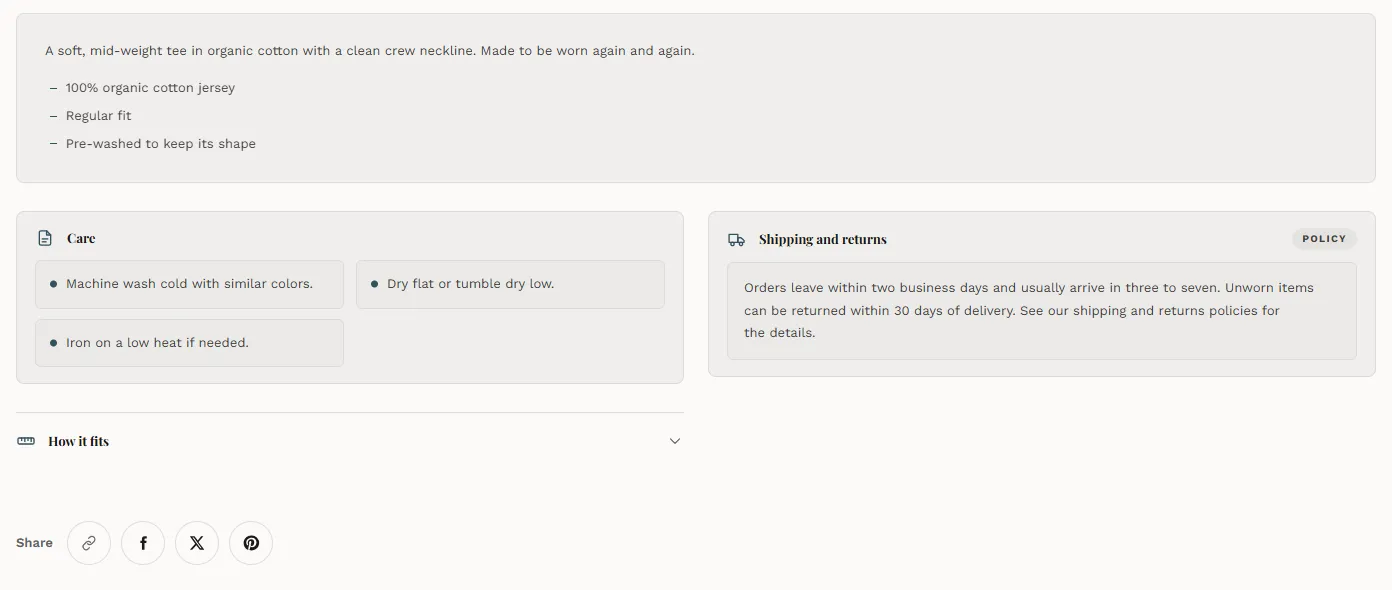
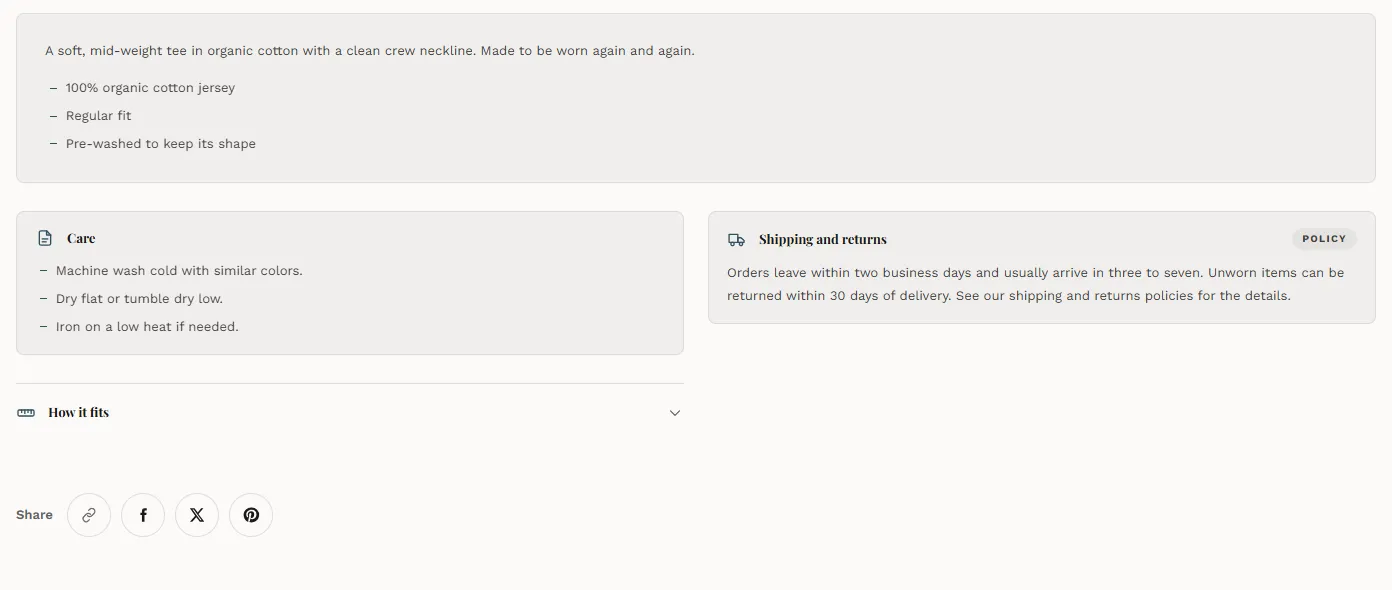
Product page panels (boxed list items setting), Hero scroll dark text, Expanding panels badge; more-to-read picture retaken

diff --git a/sections.md b/sections.md
@@ -1,6 +1,6 @@
 ---
 title: Home page sections
-updated: 2026-11-27
+updated: 2026-11-28
 ---
 
 # Home page sections
@@ -220,7 +220,7 @@ This section is for the home page only. It is not offered on other pages.
 | --- | --- |
 | **Picture overlay darkness** | Darkens the slide pictures so the text stays readable. Range 0 to 90%, default 45%. The part of the picture behind the words always carries an extra soft shade so the small line under the heading stays easy to read, even at 0: the lower half when the words sit at the bottom, a band across the top or through the middle when **Content position** puts them there. |
 | **Section background** | The color behind the slide pictures. It only shows where a picture does not reach. |
-| **Text color** | The base color for every text group. Each group can override it in its own settings. |
+| **Text color** | The base color for every text group. Each group can override it in its own settings. A color that reads better on white than on the picture's dark shading (navy, black, dark gray, red, green) puts a white highlight behind the heading and the small line, and a solid backing behind the tagline and the slide counter, so those words stay readable. A light color (white by default) gets no highlight. The choice is made by contrast, not by how dark the color looks. |
 | **Tagline pill background** | The color washed over the small pill that holds the tagline above the heading. The pill always sits on a backing that is the opposite of the tagline's words: dark behind light words, light behind dark words. This keeps the tagline readable on any picture. |
 | **Tagline pill text color** | The color of the tagline's words. Leave empty to use the section's text color. |
 | **Button shape** | The corners of the two hero buttons. **Same as theme** (default) follows *Theme settings > Buttons > Button corners*. **Pill**, **Soft** and **Square** set the corners for the section only. **Original look** keeps them as it was designed, with its own corner, height and lettering. Labels, links and colors are separate settings. |
@@ -279,7 +279,7 @@ One full-screen slide.
 | Setting | What it changes |
 | --- | --- |
 | **Heading weight** | How bold the heading is. **Theme default** keeps the weight the chosen font comes with. Options: **Theme default** (default), **Light (300)**, **Normal (400)**, **Medium (500)**, **Semi-bold (600)**, **Bold (700)**. If your font has no such weight, the theme uses the nearest one. |
-| **Heading color** | The color of the heading. Leave empty to use the section text color. |
+| **Heading color** | The color of the heading. Leave empty to use the section text color. The white highlight behind the heading follows this color: a pick that reads better on white gets it, a light pick does not. |
 | **Heading shadow strength** | How strong the shadow behind the heading is. 0 turns the shadow off. Range 0 to 100%, default 40%. |
 {: .settings}
 
@@ -1296,7 +1296,7 @@ One panel in the row.
 
 | Setting | What it changes |
 | --- | --- |
-| **Badge** | The small pill above the heading. Leave empty to number the panel automatically — 01, 02, 03. A long badge wraps onto a second line instead of being cut off. |
+| **Badge** | The small pill above the heading. Leave empty to number the panel automatically — 01, 02, 03. On the open panel a long badge wraps onto a second line instead of being cut off. On a phone or tablet the closed strips have room for one line, so a long badge there ends in "…" until its panel opens. |
 | **Heading** | The panel's title. Press Enter to break it across lines. On a computer the heading always sits above the picture: a long one wraps inside the open panel and shrinks until it fits, never below about a third of its size, and the picture sits just below the tallest heading in the section. A heading too long for that room hides that panel's picture instead of running into it; on a phone the same happens when the heading would reach the picture. |
 | **Description** | Sits along the bottom of the panel and fades in when the panel opens. Press Enter to break across lines. Leave empty to hide. On a window too short for the heading and the description to sit one above the other (a phone held sideways), the open panel puts the description beside the heading and hides its picture; a very long description then scrolls inside its column (mouse wheel, swipe or arrow keys, after Tab), so none of it is lost and the button stays visible, and the heading shrinks as far as it must so its longest word is never broken in the middle. |
 | **Button label** | The words on the button inside the open panel. The button shows only when the panel has a link. A label too long for the panel wraps onto more lines, so all of it always shows and the button grows taller; the picture gives up a little height to make room, so a short label still looks best. On a narrow, short phone screen, where the description sits beside the heading, the button's side spacing and text size come down a little (never below three quarters of the size) when a word of the label would otherwise be split in the middle. |

diff --git a/product-page.md b/product-page.md
@@ -1,6 +1,6 @@
 ---
 title: Product page
-updated: 2026-11-27
+updated: 2026-11-28
 ---
 
 # Product page
@@ -332,10 +332,11 @@ A heading that opens to your own text, to a page such as your delivery or return
 | --- | --- |
 | **Always open** | Draws the panel as a bordered card that cannot be collapsed, for the details every shopper wants such as specifications or delivery. Leave off and it is a row that opens on a click. |
 | **Label on the right** | A short word beside the heading, such as Included or Policy. A long label wraps onto more lines inside the panel, and in the Classic look a word is never split across lines: a label that does not fit beside the heading drops under it. Shown when **Always open** is on. |
+| **Show list items as boxes** | Draws each bullet of the panel's own list as a small box, in two columns (dashed ruled rows in the Filmstrip, Long read and Spec sheet layouts), for a list of specifications. A picked page's text is never boxed. Leave off and the panel shows its text, lists and paragraphs like the rest of your store. Off by default; the specifications panel that comes with the theme has it on. Shown when **Always open** is on. |
 | **Icon** | A small icon beside the heading. Options: **No icon**, **Document**, **Delivery van**, **Return arrow**, **Exchange**, **Ruler**, **Washing**, **Leaf**, **Parcel**, **Payment card**, **Padlock**, **Shield**, **Award**, **Information**, **Question mark**, **Chat bubble**, **Clock**, **Globe**, **Map pin**, **Price tag**, **Gift**. |
 {: .settings}
 
-> *Numbered lists keep their numbers.* In an always-open panel a bullet list is drawn as a grid of chips, and a numbered list shows its numbers like rich text anywhere else on your store.
+> *Boxes are for specifications only.* Paragraphs, numbered lists and a picked page's text always look like rich text anywhere else on your store, and a numbered list keeps its numbers. Only a bullet list you type into the panel, with **Show list items as boxes** on, is drawn as boxes.
 
 ### Share
 
